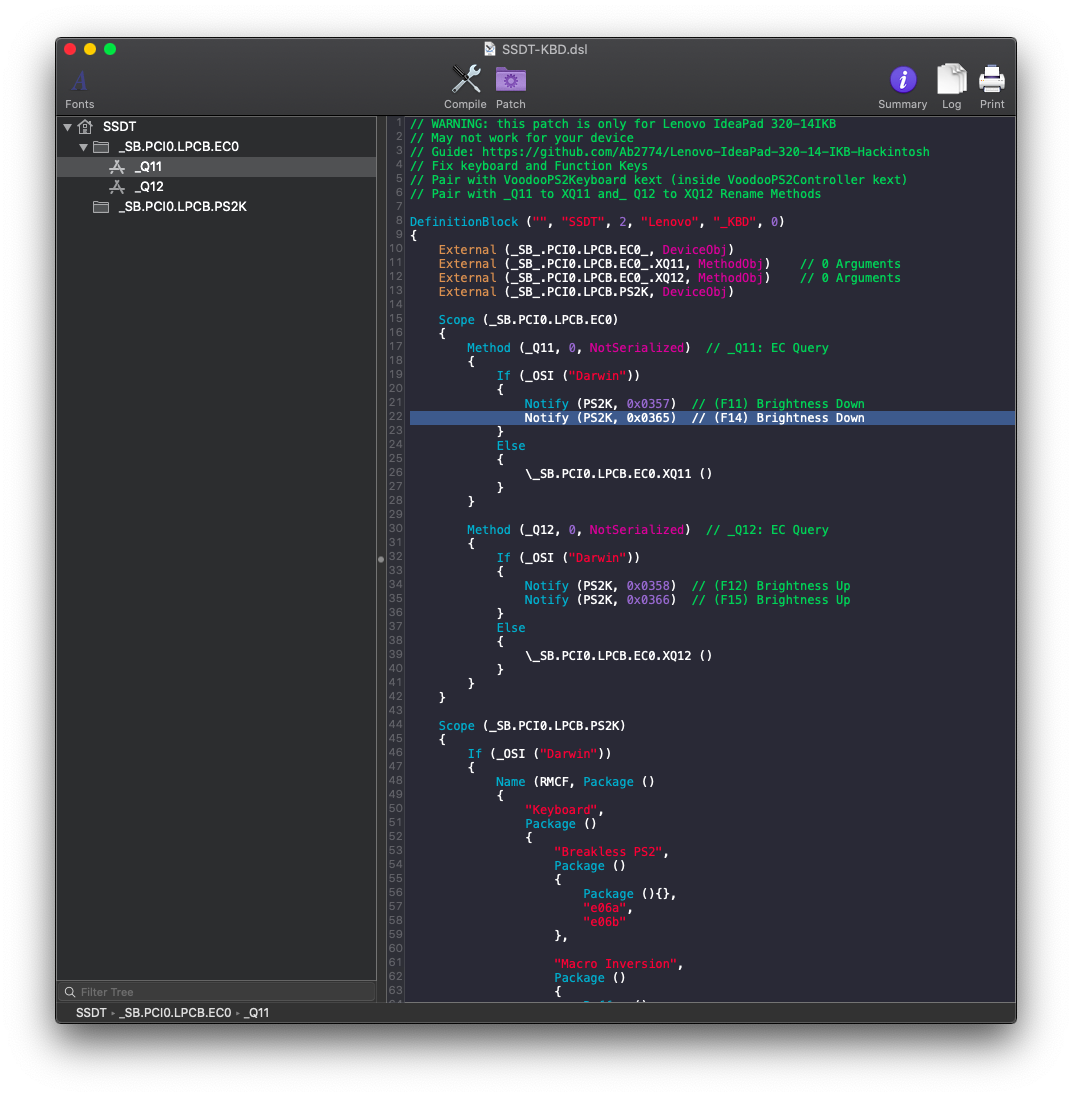
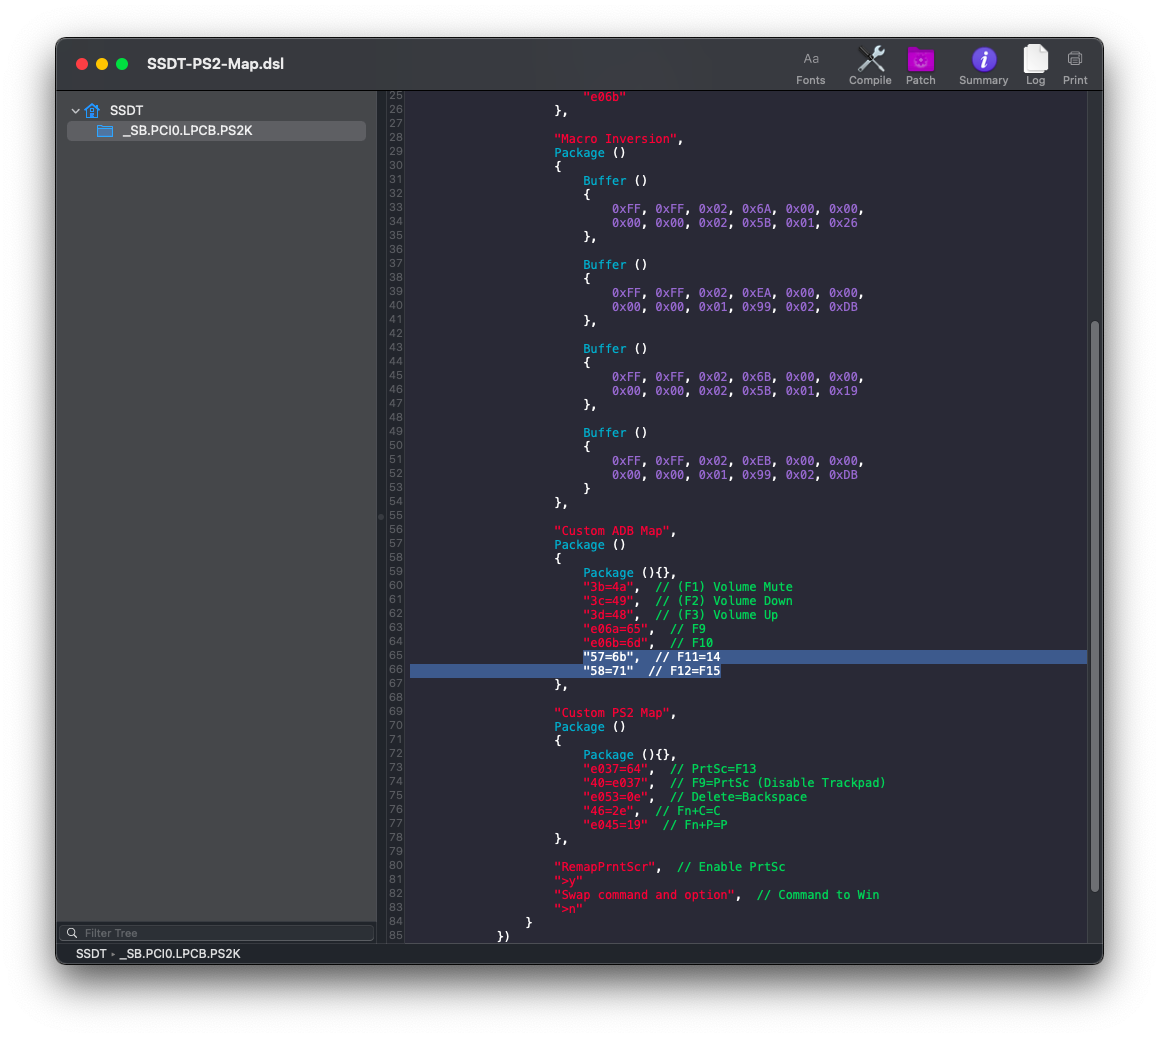
Support 1.1.5 changes

diff --git a/README.md b/README.md
@@ -11,7 +11,7 @@ A guide for installing macOS Catalina on Lenovo IdeaPad 320-14IKB using Clover a
 I'm not an expert in hackintoshing, this is my first Hackintosh, I managed to get everything working in my laptop, your laptop may be different than mine, higher specifications, dedicated GPU, etc, it's not guaranteed to work a %100, if it's so then this guide may not work for you, be careful and good luck!
 
 # Laptop's Hardware 
-- <b>CPU</b>: Intel i5 7200U Dual-Core CPU (Kaby Lake-U)
+- <b>CPU</b>: Intel [i5 7200U](https://ark.intel.com/content/www/us/en/ark/products/95443/intel-core-i5-7200u-processor-3m-cache-up-to-3-10-ghz.html) Dual-Core CPU (Kaby Lake-U)
 - <b>GPU</b>: Intel HD 620 Graphics 
 - <b>Storage</b>: 500GB WD Blue Solid State Drive & 2TB Seagate Mobile Hard Drive (Upgraded)
 - <b>RAM</b>: 12 GB DDR4 2133MHz (Upgraded)
@@ -34,19 +34,25 @@ This laptop is a budget laptop, by these specs, you can't do some heavy work, ba
 - Wi-Fi & Bluetooth (including Apple services)
 - Internal webcam with Facetime
 - ELAN Trackpad with GPIO mode (including gestures)
-- Sleep (lid sleep and lid wake)
+- Sleep (hibernation, lid sleep and lid wake)
 - Native macOS Hibernation
-- Screen Brightness with hotkeys
-- macOS 10.13 High Sierra, 10.14 Mojave, and 10.15 Catalina
+- Screen Brightness with Hotkeys
+- Fn keys and Hotkeys lock
+- macOS 10.13 High Sierra, 10.14 Mojave, and 10.15 Catalina, Big Sur 11
 
 # What's Not Working?
 - Apple Pay, requires TouchID, more information [here](https://discussions.apple.com/thread/7808558)
+
 # Bugs
 - DRM support (iTunes Movies, Apple TV+, Amazon Prime and Netflix, and others) could be fixed in the future, more information [here](https://github.com/acidanthera/bugtracker/issues/586) and [here](https://www.tonymacx86.com/threads/an-idiots-guide-to-lilu-and-its-plug-ins.260063/#DRM).
+- No sound if power unplugged or mic is being used after sleep, see https://github.com/Ab2774/Lenovo-IdeaPad-320-14-IKB-Hackintosh/issues/2.
+- Microphone doesn't work in Chrome or Firefox, see https://github.com/Ab2774/Lenovo-IdeaPad-320-14-IKB-Hackintosh/issues/3.
+- Lowest brightness, in real Macs, the lowest brightness turns the screen completely black, however, `AppleBacklightSmoother` Kext doesn`t support this feature yet.
+- Screen light-up after wake, in `Big Sur` a second keyboard click is required to light up the screen, this can be fixed but it will break sleep causing instant wake.
 
 # Requirement 
 - 16GB USB drive 
-- macOS Catalina image downloaded from the Appstore 
+- macOS Big Sur image downloaded from the Appstore 
 - ~Mouse, because trackpad won't work in the installation~ Fixed with VoodooI2C v2.4
 
 # BIOS Configuration
@@ -57,7 +63,7 @@ Before doing anything, make sure to update your BIOS to the latest version from 
 - "Exit" <b>OS Optimized Defaults</b> to <b>Disabled</b>.
 
 # Installation
-After downloading macOS Catalina from the AppStore (do not use a distro image like Hackintosh Zone otherwise it's gonna break your system and you won't get any support using it), format your USB drive as "Mac OS Extended (Journaled)", then open Terminal and type: `sudo /Applications/Install\ macOS\ Catalina.app/Contents/Resources/createinstallmedia --volume /Volumes/MyVolume`, and remember, `MyVolume` is for the name of your USB drive, you can change it if you would, mount the EFI partition in your USB, Copy-and-paste the folder `EFI` from this release's repository, unzip `SMBIOS Generator`, open Terminal and drag-and-drop macserial to the terminal window, then type `--generate-all`  and press<kbd> enter</kbd>, then copy MacBookPro14,1 SMBIOS (which is the closest one to this laptop's hardware) and change it, copy to both Clover's config.plist and OpenCore's config.plist, update your kexts and Clover Bootloader or OpenCore (if a new update is available), reboot your laptop and press `F12` to enter `BIOS Menu`, choose your USB installer and boot from it, you should see the `Clover Boot Menu`, boot from the USB that shown, it may take some time to boot, after is done, you should see `macOS Utilities`, choose `Disk Utility` and erase the drive you want to install macOS on it, click on `Erase` and type the name that you want, like: "Macintosh HD", choose the format as `APFS` and `Scheme` as `GUID Partition Map` and click `Erase`, after it's done, close the window and go back to `macOS Utilities` and choose `Install macOS`, click `Agree` to accept the license agreement, the installation should starts now, your laptop should restarts several times, after it's done, login to your AppleID (for more specific guide please go [here](https://dortania.github.io/oc-laptop-guide/)), after setting up your laptop, unzip the folder `ALCPlugFix`, run `install.command` and type your password, this is gonna fix the static noise from your headphone after sleep, install Sniki's `CodecCommander` kext which can be found [here](https://github.com/Sniki/EAPD-Codec-Commander) to `/Library/Extensions` by running the command `KextInstall.command`, if you have problems with sleep please go [here](https://dortania.github.io/oc-laptop-guide/battery-power-management/correcting-sleep-problems.html)
+After downloading macOS Big Sur from the AppStore (do not use a distro image like Hackintosh Zone otherwise it's gonna break your system and you won't get any support using it), format your USB drive as "Mac OS Extended (Journaled)", then open Terminal and type: `sudo /Applications/Install\ macOS\ Big\ Sur\.app/Contents/Resources/createinstallmedia --volume /Volumes/MyVolume`, and remember, `MyVolume` is for the name of your USB drive, you can change it if you would, mount the EFI partition in your USB, Copy-and-paste the folder `EFI` from this release's repository, unzip `SMBIOS Generator`, open Terminal and drag-and-drop macserial to the terminal window, then type `--generate-all`  and press<kbd> enter</kbd>, then copy MacBookPro14,1 SMBIOS (which is the closest one to this laptop's hardware) and change it, copy to both Clover's config.plist and OpenCore's config.plist, update your kexts and Clover Bootloader or OpenCore (if a new update is available), reboot your laptop and press `F12` to enter `BIOS Menu`, choose your USB installer and boot from it, you should see the `Clover Boot Menu`, boot from the USB that shown, it may take some time to boot, after is done, you should see `macOS Utilities`, choose `Disk Utility` and erase the drive you want to install macOS on it, click on `Erase` and type the name that you want, like: "Macintosh HD", choose the format as `APFS` and `Scheme` as `GUID Partition Map` and click `Erase`, after it's done, close the window and go back to `macOS Utilities` and choose `Install macOS`, click `Agree` to accept the license agreement, the installation should starts now, your laptop should restarts several times, after it's done, login to your AppleID (for more specific guide please go [here](https://dortania.github.io/oc-laptop-guide/)), after setting up your laptop, unzip the folder, (please delete CodecComannder and ALCPlugFix as they're no longer required with AppleALC 1.5.4), if you have problems with sleep please go [here](https://dortania.github.io/oc-laptop-guide/battery-power-management/correcting-sleep-problems.html)
 restart, and you're ready to go!
 
 # Extras
@@ -71,13 +77,14 @@ OpenCore:
 - If you don't like the name of your laptop that shown in "About This Mac", you can change it! Press Shift+Cmd+G <kbd>⇧⌘G</kbd> and copy-and-paste this path: `/Users/Username/Library/Preferences/com.apple.SystemProfiler.plist`, and remember, the word `Username` Is for your username, now download your favorite plist editor (mine is "PilstEdit Pro"), then you can change to `Lenovo IdeaPad 320-14IKB (80XK)` or any name you want.
 ![](Images/Edit.png)
 ![](Images/About_This_Mac.png)
-- The keyboard experience on this laptop is a bit different than a real mac, in order to make the closest to a real mac we need to make a couple of changes, first we need to swap <kbd>Cmd</kbd> to <kbd>Win</kbd> using `SSDT-Swap-Cmd-Alt` (or swap them in `System Preferences` as shown in the photo), to prevent <kbd>PrtSc</kbd> from disabling trackpad we need to remap it as <kbd>F13</kbd> (can be remaped to take screenshots and record videos as shown in the photo) and remap <kbd>F6</kbd> as <kbd>PrtSc</kbd> to disable trackpad, to make <kbd>Delete</kbd> key working like a real Mac we need to remap it as <kbd>Backspace</kbd>, in some models the brightness keys are <kbd>F11</kbd> and <kbd>F12</kbd>, or <kbd>F14</kbd> and <kbd>F15</kbd>, in `SSDT-KBD` and `SSDT-KBD` there's two queries for brightness up and brightness down and under each one of them two notifies for both of them, when pressing the desired button it will trigger both the brightness key and the another key simutaneously, which will make a feedback sound, to fix that hold `Fn` key and press the brightness key, if the brightness level changes that means that it's <kbd>F11</kbd> and <kbd>F12</kbd>, but if nothing happens that means that the brightness keys are <kbd>F14</kbd> and <kbd>F15</kbd>, to delete the unneeded notify highlight it and delete it using MaciASL which can be found [here](https://github.com/acidanthera/MaciASL), then compile it and replace it, if you want to use all the patches there's an SSDT that combines them all which is `SSDT-PS2-Map`, avoid using all of them to prevent having a `Kernel Panic`.
+- Fn keys don't work usually on most hackintoshes, luckily, `YogaSMC` can fix this! Not just enabling Fn keys and their abilities, it enables Lenovo features like `Conversation Mode` to stop charging the battery at %60 to increase it's age, ture Cycle Count reading because macOS ones can be wrong, `Fn Mode` etc, to get those features, `YogaSMC` is included inside the EFIs, all you have to do is install `YogaSMCNC` app and `YogaSMCPane` which are included in the release.
+- The keyboard experience on this laptop is a bit different than a real mac, in order to make the closest to a real mac we need to make a couple of changes, luckily, in the latest `VoodooPS2` release, it automatically swaps <kbd>Cmd</kbd> to <kbd>Win</kbd>, if you want to reverse it, use `SSDT-Swap-Alt-Cmd` (or swap them in `System Preferences` as shown in the photo), to prevent <kbd>PrtSc</kbd> from disabling trackpad we need to remap it as <kbd>F13</kbd> (can be remaped to take screenshots and record videos as shown in the photo) and remap <kbd>F6</kbd> as <kbd>PrtSc</kbd> to disable trackpad, to make <kbd>Delete</kbd> key working like a real Mac we need to remap it as <kbd>Backspace</kbd>, `BrightnessKeys` Kext automatically remaps brightness keys without any ACPI requirements, if your brightness keys are <kbd>F11</kbd> and <kbd>F12</kbd>, please remove these two lines using MaciASL which can be found [here](https://github.com/acidanthera/MaciASL) as they are not required and will affect brightness keys in `Fn Mode`, then compile it and replace it, if your brightness keys are <kbd>F14</kbd> and <kbd>F15</kbd>, you're good to go! If you want to use all keyboard patches, there's an SSDT that combines them all which is `SSDT-PS2-Map`, please avoid using all of them to prevent having a `Kernel Panic`.
 ![](Images/Keyboard.png)
 ![](Images/Remap.png)
 ![](Images/Brightness.png)
 - Who needs CDs these days? You can buy this caddy and replace it with the CD Drive from [here](https://www.aliexpress.com/item/32850001303.html) to get dual drives.
 - 4GB of ram isn't enough these days, Unfortunately, 4GB is built-in the motherboard, so the maximum is 12GB, you can upgrade your RAM to 12GB total from [here](https://www.amazon.com/Corsair-Module-2133MHz-Unbuffered-SODIMM/dp/B0143UM6Y0/ref=sr_1_6?dchild=1&keywords=8+ram+2133&qid=1585516185&s=electronics&sr=1-6).
-- The Wi-Fi card that shipped with this laptop is probably an Intel Wi-Fi card, there's a kexts for it under development which can be found [here](https://github.com/AppleIntelWifi/adapter) and [here](https://github.com/OpenIntelWireless/itlwm), but for now, you can buy the BCM94360CS2, an Apple wifi card for this laptop for less than 40$ (USD), nowadays, The DW1560 is quite expensive and it's not natively supported by Apple, fortunately, I bought it before it becomes expensive, you can buy it instead of the DW1560, no kexts needed because it's natively supported by macOS [The Wi-Fi Card](https://www.aliexpress.com/item/32637520988.html?trace=wwwdetail2mobilesitedetail&spm=a2g0s.9042311.0.0.5e204c4dWDlWnx), [The Adapter](https://www.aliexpress.com/item/4000300306817.html?trace=wwwdetail2mobilesitedetail&trace=wwwdetail2mobilesitedetail&spm=a2g0s.9042311.0.0.5e204c4dWDlWnx), [The Antennas](https://www.aliexpress.com/item/32862630916.html?trace=wwwdetail2mobilesitedetail&spm=a2g0s.9042311.0.0.5e204c4dWDlWnx).
+- The Wi-Fi card that shipped with this laptop is probably an Intel Wi-Fi card which can be fixed with `itlwm` Kext which can be found [here](https://github.com/OpenIntelWireless/itlwm), please check all supported cards before buying from [here](https://openintelwireless.github.io/itlwm/Compat.html), there's another option which is buying a Broadcom Card like DW1560 and DW1830, please check all supported cards before buying from [here](https://dortania.github.io/Wireless-Buyers-Guide/unsupported.html), or you can buy an Apple Wi-Fi Card like BCM94360CS2, [The Wi-Fi Card](https://www.aliexpress.com/item/32637520988.html?trace=wwwdetail2mobilesitedetail&spm=a2g0s.9042311.0.0.5e204c4dWDlWnx), [The Adapter](https://www.aliexpress.com/item/4000300306817.html?trace=wwwdetail2mobilesitedetail&trace=wwwdetail2mobilesitedetail&spm=a2g0s.9042311.0.0.5e204c4dWDlWnx), [The Antennas](https://www.aliexpress.com/item/32862630916.html?trace=wwwdetail2mobilesitedetail&spm=a2g0s.9042311.0.0.5e204c4dWDlWnx).
 - You can change the frequency of your CPU in `config.plist` as shown in the photo, without changing it, macOS will recognize it as 2.71 GHz for some-reason. 
 ![](Images/CPU.png)
 - You can change the name of your graphics like this, I chose the name `Intel HD Graphics 620 macOS Edition` you can choose whatever you want as shown in the photo.
@@ -103,12 +110,13 @@ OpenCore:
 # Credits
 - [Apple](https://www.apple.com) for macOS.
 - [Acidanthera](https://github.com/acidanthera) for most of the kexts.
-- [goodwin](https://github.com/goodwin) for ALCPlugFix.
-- [RehabMan](https://github.com/RehabMan) for some patches.
+- [RehabMan](https://github.com/RehabMan) for some ACPI patches.
 - [Steve Zheng](https://github.com/stevezhengshiqi) for some patches.
+- [zhen-zen](https://github.com/zhen-zen) for YogaSMC.
+- [Hiep Bao Le](https://github.com/hieplpvip) for AppleBacklightSmoother
 - [Sniki](https://github.com/Sniki) for some patches.
-- [daliansky](https://github.com/daliansky) for some patches.
-- [Moh_Ameen](https://github.com/ameenjuz) for some patches.
+- [daliansky](https://github.com/daliansky) for some ACPI patches.
+- [Moh_Ameen](https://github.com/ameenjuz) for some ACPI patches.
 - [blackosx](https://github.com/blackosx/OpenCanopyIcons) for OpenCanopyIcons theme.
 - [al3xtjames](https://github.com/al3xtjames) for clover-theme-oss theme.
 - [ImmersiveX](https://github.com/ImmersiveX) for clover-theme-minimal-dark theme.

diff --git a/Changelog.md b/Changelog.md
@@ -192,7 +192,7 @@
 - Added back `RtcHibernateAware` in `Clover's` `config.plist` for better sleep (thanks @stevenzhengshiqi)
 - Added `Legacy` and `Linux` in `Clover` Bootloader `config.plist` for better compatibility
 - Removed `VoodooTSCSync` Kext and replaced with `CpuTscSync` Kext for better compatibility
-- Removed `Rename _CRS to XCRS` Rename from both `Clover` and `OpenCore's` Bootloaders `config.plist` because it's no longer needed
+- Removed `Rename _CRS to XCRS` Rename Patch from both `Clover` and `OpenCore's` Bootloaders `config.plist` because it's no longer needed
 - Removed `Inject` from  `Clover's` Bootloader `config.plist` because it's already injected
 - Removed `ig-platform-id` from  `Clover's` Bootloader `config.plist` because it's no longer needed
 - Changed `EnableSafeModeSlide` value from `YES` to `NO` in `Clover's` `config.plist` because it's no longer needed
@@ -201,3 +201,40 @@
 - Changed `ResetHwSig` value from `NO` to `YES` in `Quirks` in `ACPI` in `OpenCore's` `config.plist`
 - Changed `Timeout` value from `15` to `0` in `Boot` in `Misc` in `OpenCore's` `config.plist`
 - Changed `JumpstartHotPlug` value from `YES` to `NO` in `Boot` in `Misc` in `OpenCore's` `config.plist`
+
+# EFI v1.1.5
+- Updated OpenCore Bootloader version to `0.6.4`
+- Updated `AirportBrcmFixup` Kext to `2.1.2`
+- Updated `AppleALC` Kext to `1.5.5`
+- Updated `BrcmPatchRAM` Kext to `2.5.5`
+- Updated `CpuTscSync` Kext to `1.0.3`
+- Updated `HibernationFixup` Kext to `1.3.8`
+- Updated `Lilu` Kext to `1.5.0`
+- Updated `VoodooI2C` Kext and Satellites to`2.6.1`
+- Updated `VirtualSMC` Kext and Plug-ins to `1.1.9`
+- Updated `WhateverGreen`  to `1.4.5`
+- Updated `SSDT-KBD` to enable `PrtSc`, map F11 to F14 & F12 to F15, move brightness keys support to `BrightnessKeys` Kext and to fix Fn+C and Fn+P
+- Updated `SSDT-PS2-Map` to enable `PrtSc`, map F11 to F14 & F12 to F15, move brightness keys support to `BrightnessKeys` Kext and to fix Fn+C and Fn+P
+- Updated `SSDT-LIP320-14IKB` to enable `PrtSc`, map F11 to F14 & F12 to F15, move brightness keys support to `BrightnessKeys` Kext
+- Updated `OpenCore's` `config.plist` to support `0.6.4` changes
+- Added `AHCIPortFixup` Kext fix `Big Sur's` `AppleIntelPchSeriesAHCI`
+- Added `AppleBacklightSmoother` Kext to smooth backlight transition
+- Added `BrightnessKeys` Kext to support brightness keys
+- Added `RestrictEvents` Kext to replace `EFICheckDisabler`
+- Added `YogaSMC` Kext to support Fn keys, Fn Lock Mode, Hot Keys Mode, Battery Conversation Mode, and extra battery information (read the guide for more)
+- Added  `Disable RTC Wake Scheduling` in `OpenCore's` `config.plist` for better sleep
+- Removed `Rename _Q11 to XQ11` and `Rename _Q12 to XQ12` Rename Patch and replaced with `BrightnessKeys` Kext for better compatibility
+- Removed `EFICheckDisabler` and replaced with `RestrictEvents` Kext for better compatibility
+- Removed `SSDT-GPRW` ACPI and replaced with `SSDT-UPRW` ACPI for `USBWakeFixup` compatibility with `Big Sur`
+- Changed `CsrActiveConfig` value from `0x0877` to `0x30` in `Clover's` `config.plist` (thanks @stevezhengshiqi)
+- Changed `NormalizeHeaders` value from `NO` to `YES` in `Quirks` in `ACPI` in `OpenCore's` `config.plist` for better compatibility
+- Changed `EnableSafeModeSlide` value from `NO` to `YES` in `Quirks` in `Booter` in `OpenCore's` `config.plist`
+- Changed `PollAppleHotKeys` value from `NO` to `YES` in `Quirks` in `Booter` in `OpenCore's` `config.plist`
+- Changed `CsrActiveConfig` value from `77080000` to `30000000`  in `NVRAM` in `OpenCore's` `config.plist` (thanks @stevezhengshiqi)
+- Changed `MinimumVolume` value from `50` to `20` in `Audio` in `UEFI` in `OpenCore's` `config.plist`
+- Changed `VolumeAmplifier` value from `1000` to `125` in `Audio` in `UEFI` in `OpenCore's` `config.plist`
+- Changed `SanitiseClearScreen` value from `YES` to `NO` in `Output` in `UEFI` in `OpenCore's` `config.plist`
+- Changed `AppleSmcIo` value from `NO` to `YES` in `ProtocolOverrides` in `UEFI` in `OpenCore's` `config.plist`
+- Changed `FirmwareVolume` value from `NO` to `YES` in `ProtocolOverrides` in `UEFI` in `OpenCore's` `config.plist`
+- Supports macOS Big Sur 11 (`OpenCore` only) & macOS Catalina 10.15.7
+- ### Note: please read the guide again with the new releases as there are major changes you need to be aware of, and Happy New Year!
